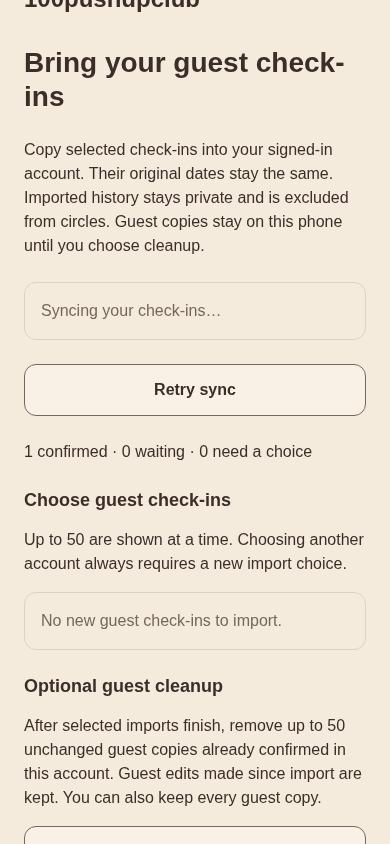
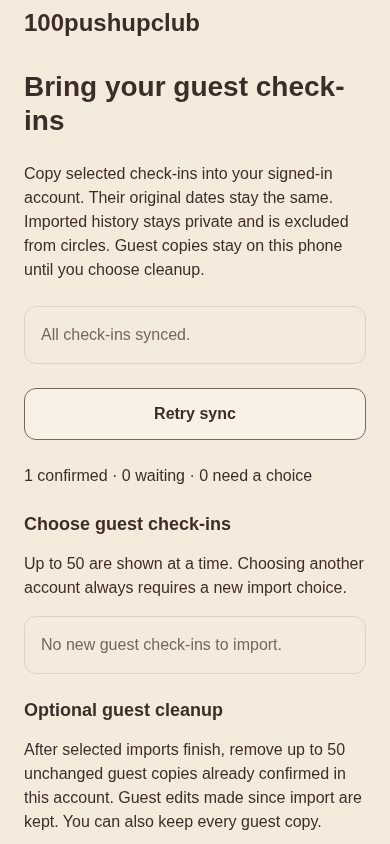
Record verified region directory and connected browser evidence

diff --git a/tracking/evidence/T13.md b/tracking/evidence/T13.md
@@ -7,3 +7,5 @@ Verification: deterministic import and orphan/duplicate rejection; real database
 Implemented: 7,259 region rows /24,668 ancestor links from verified source hashes; two bounded public RPCs with explicit grants and empty search_path; normalized search and scope/version-bound cursors; inactive/unknown region fallback; per-partition durable browsing choice; at most20 sanitized cached pages; About attribution. Browsing choice does not mutate account public consent.
 
 Local checks passed: node --test tools/regions/regions.test.mjs (2 source/hierarchy tests); mobile node --test tests/integration/regions.test.ts (real HTTP/SQLite sanitized cache, offline fallback, malformed response rejection and cache bounds); npm.cmd run typecheck; npm.cmd run lint; npm.cmd run export:web. Browser smoke passed unconfigured-directory notice and durable World selection. Real backend search/grants/fallback tests and connected county selection/offline/no-result browser review await CI. No native device or hosted deployment is claimed.
+
+Verified at227a217: [backend CI](https://github.com/kevinckw115/100pushupclub/actions/runs/34612647590) passed fresh directory migrations, 15 SQL grants/RLS assertions, real public/JWT RPC search/cursor/ancestor/fallback checks and the connected browser flow. [Mobile CI](https://github.com/kevinckw115/100pushupclub/actions/runs/34612647595) passed full native/web exports and all mobile checks. [Package CI](https://github.com/kevinckw115/100pushupclub/actions/runs/34612647652) passed source checksum/generation tests, contracts and Python validation. Browser verified county selection, offline cached search, no-result state and preserved guest/account separation; [screenshot](t13-region-web.png) inspected at390×844. T12 screenshot refreshed after completed sync. Native accessibility is unverified. The9/10 contributor threshold belongs to the next T14 public-query gate.

diff --git a/tracking/PROGRESS.md b/tracking/PROGRESS.md
@@ -6,7 +6,7 @@ T01-T07 implemented on separate task branches. Local tracker has automated domai
 
 ## Current task
 
-T13 region directory is in progress on task/t13-region-directory: checked GeoNames snapshot, generated hierarchy/ancestors, bounded public search/resolve RPCs, manual cached picker and attribution. T12 verified at4292735 with real import/collision/restart/browser tests and full native/web exports; SDK57 compatibility alignment passed. T11 sync tests also reran successfully. Native secure storage, lifecycle and hosted OTP still need device/development setup. No hosted backend deployed. Next: finish T13 backend/browser evidence, then T14 consent/public queries on a new branch.
+T13 region directory verified at227a217: checked GeoNames hierarchy, bounded public RPCs, manual cached picker and attribution passed backend/browser/native-export CI. T12 verified at4292735; T11 sync checks also reran successfully. Native secure storage, lifecycle, accessibility and hosted OTP still need device/development setup. No hosted backend deployed. Next: T14 consent/public queries on a new branch; enforce epoch invalidation, sanitized opaque projections, thresholds and current eligibility across pages.
 
 ## Fixed direction
 
